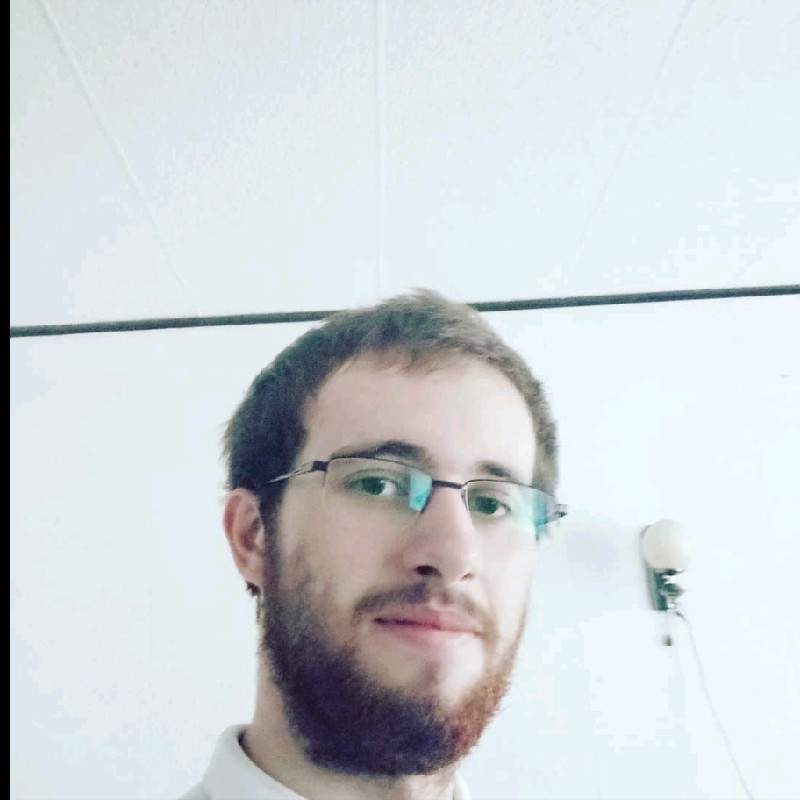
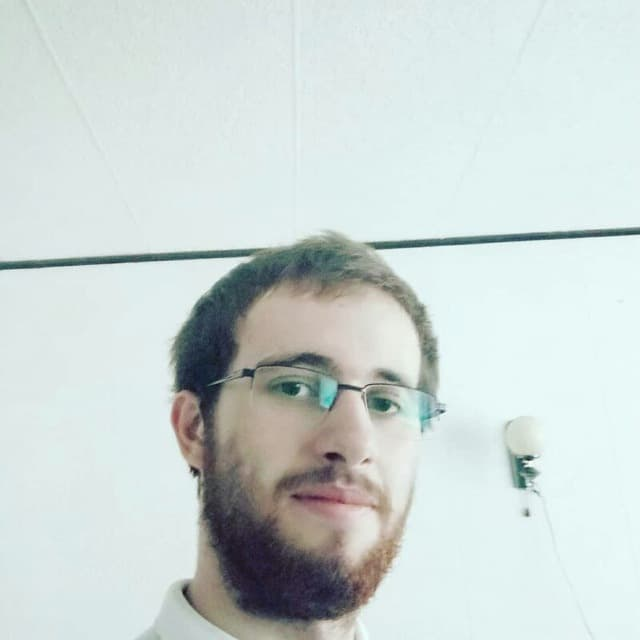
fixed photo

diff --git a/src/components/Bio.js b/src/components/Bio.js
@@ -14,9 +14,9 @@ export default function Bio() {
               className="card-img-top object-center rounded mx-auto"
               alt="yaroslav"
               src="../profile.jpeg"
-              width={450}
+              width={400}
               height={300}
-              style={{ borderRadius: "50%" }}
+              style={{ borderRadius: "70%" }}
             />
             <p className="card-text mb-8 leading-relaxed">
               My name is Yaroslav Yatsyk and I am a graduation student pursuing
